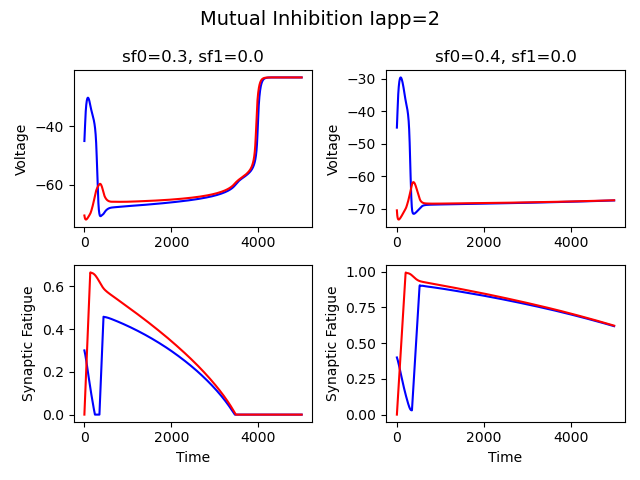
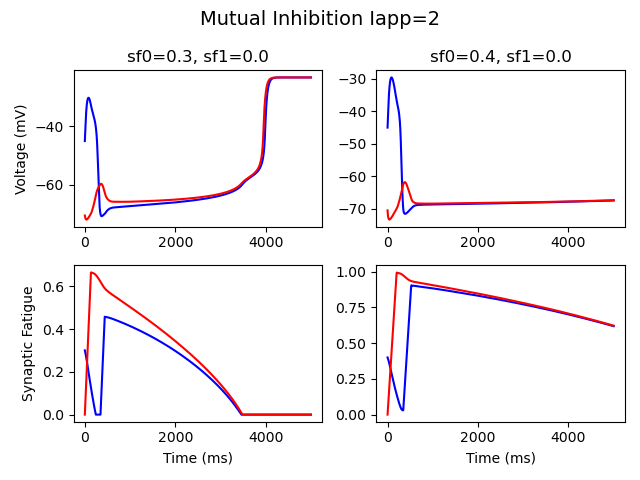
added ramp current injection

diff --git a/tests/test_ramp.py b/tests/test_ramp.py
@@ -1,0 +1,81 @@
+import sys
+import os
+sys.path.insert(0, os.path.join(os.path.dirname(__file__), '..', 'src'))
+
+import numpy as np
+from scipy.integrate import solve_ivp
+import matplotlib.pyplot as plt
+import settings
+from functions import *
+
+"""
+Testing a single neuron under a ramped applied current
+"""
+
+# For Yuval Model
+settings.C = 7.0    # pF Membrane Capacitance
+settings.g = 1.0    # nS Membrane Conductance
+settings.L = -70.0  # mV Resting Potential
+settings.T = -45.0  # mV Depolarization Threshold
+settings.H = -35.0  # mV Plateau Potential
+settings.m1 = 0.7
+settings.m2 = 1/81.0
+settings.m3 = -1/30.0
+settings.m4 = 0.17
+
+MEDIA_DIR = os.path.join(os.path.dirname(__file__), '..', 'media')
+
+def run(save=True):
+    t0 = 0
+    tf = 10000
+    dt = 1
+    t = np.linspace(t0, tf, int(tf-t0/dt))
+
+    def ode(t, y):
+        V = f(y[0])
+        if t < 2500:
+            Iapp = 4*t/tf
+        elif t <= 5000:
+            Iapp = 2-4*t/tf
+        elif t >= 9000:
+            Iapp = -1
+        else:
+            Iapp = 0
+
+        return np.array([(settings.g * V + 4*Iapp) / settings.C])
+
+    init = np.array([settings.L]).reshape(1,)
+    sol = solve_ivp(ode, [t0, tf], init, method="BDF", t_eval=t)
+
+    Iapp = np.zeros(t.size)
+    Iapp[0:2500] = 4*t[0:2500]/tf
+    Iapp[2500:5000] = 2-4*(t[2500:5000])/tf
+    Iapp[5000:9000] = 0
+    Iapp[9000:] = -1
+
+    fig, axes = plt.subplots(2, 1)
+    fig.suptitle("Single Neuron Ramp", fontsize=14)
+
+    axes[0].set_title("Voltage")
+    axes[0].plot(sol.t, sol.y[0], color="black")
+    axes[0].plot(sol.t, settings.L*np.ones(sol.t.shape), color="blue", linestyle="dotted", label="Leak")
+    axes[0].plot(sol.t, settings.T*np.ones(sol.t.shape), color="green", linestyle="dotted", label="Threshold")
+    axes[0].plot(sol.t, settings.H*np.ones(sol.t.shape), color="orange", linestyle="dotted", label="Plateau")
+    axes[0].legend(loc="upper right", fontsize=6)
+    axes[0].set_ylabel("Voltage (mV)")
+
+    axes[1].set_title("Applied Current")
+    axes[1].plot(sol.t, Iapp, color="red")
+    axes[1].set_ylabel("Iapp (pA)")
+    axes[1].set_xlabel("Time (ms)")
+
+    fig.tight_layout()
+
+    if save:
+        plt.savefig(os.path.join(MEDIA_DIR, "ramp.png"))
+
+    plt.show()
+
+
+if __name__ == "__main__":
+    run()

diff --git a/tests/test_two_inh.py b/tests/test_two_inh.py
@@ -100,21 +100,19 @@ def run(Iapp=3, V0=-45.0, first_start=0.3, second_start=0.4, save=True):
     axes[0, 0].set_title(f"sf0={first_start}, sf1={F_init_first[1,0]}")
     axes[0, 0].plot(sol.t, sol.y[0, :], color="blue")
     axes[0, 0].plot(sol.t, sol.y[1, :], color="red")
-    axes[0, 0].set_ylabel("Voltage")
+    axes[0, 0].set_ylabel("Voltage (mV)")
     axes[1, 0].plot(sol.t, sol.y[2, :], color="blue")
     axes[1, 0].plot(sol.t, sol.y[3, :], color="red")
     axes[1, 0].set_ylabel("Synaptic Fatigue")
-    axes[1, 0].set_xlabel("Time")
+    axes[1, 0].set_xlabel("Time (ms)")
 
     # "good" plot
     axes[0, 1].set_title(f"sf0={second_start}, sf1={F_init_second[1,0]}")
     axes[0, 1].plot(sol1.t, sol1.y[0, :], color="blue")
     axes[0, 1].plot(sol1.t, sol1.y[1, :], color="red")
-    axes[0, 1].set_ylabel("Voltage")
     axes[1, 1].plot(sol1.t, sol1.y[2, :], color="blue")
     axes[1, 1].plot(sol1.t, sol1.y[3, :], color="red")
-    axes[1, 1].set_ylabel("Synaptic Fatigue")
-    axes[1, 1].set_xlabel("Time")
+    axes[1, 1].set_xlabel("Time (ms)")
 
     fig.tight_layout()
 
